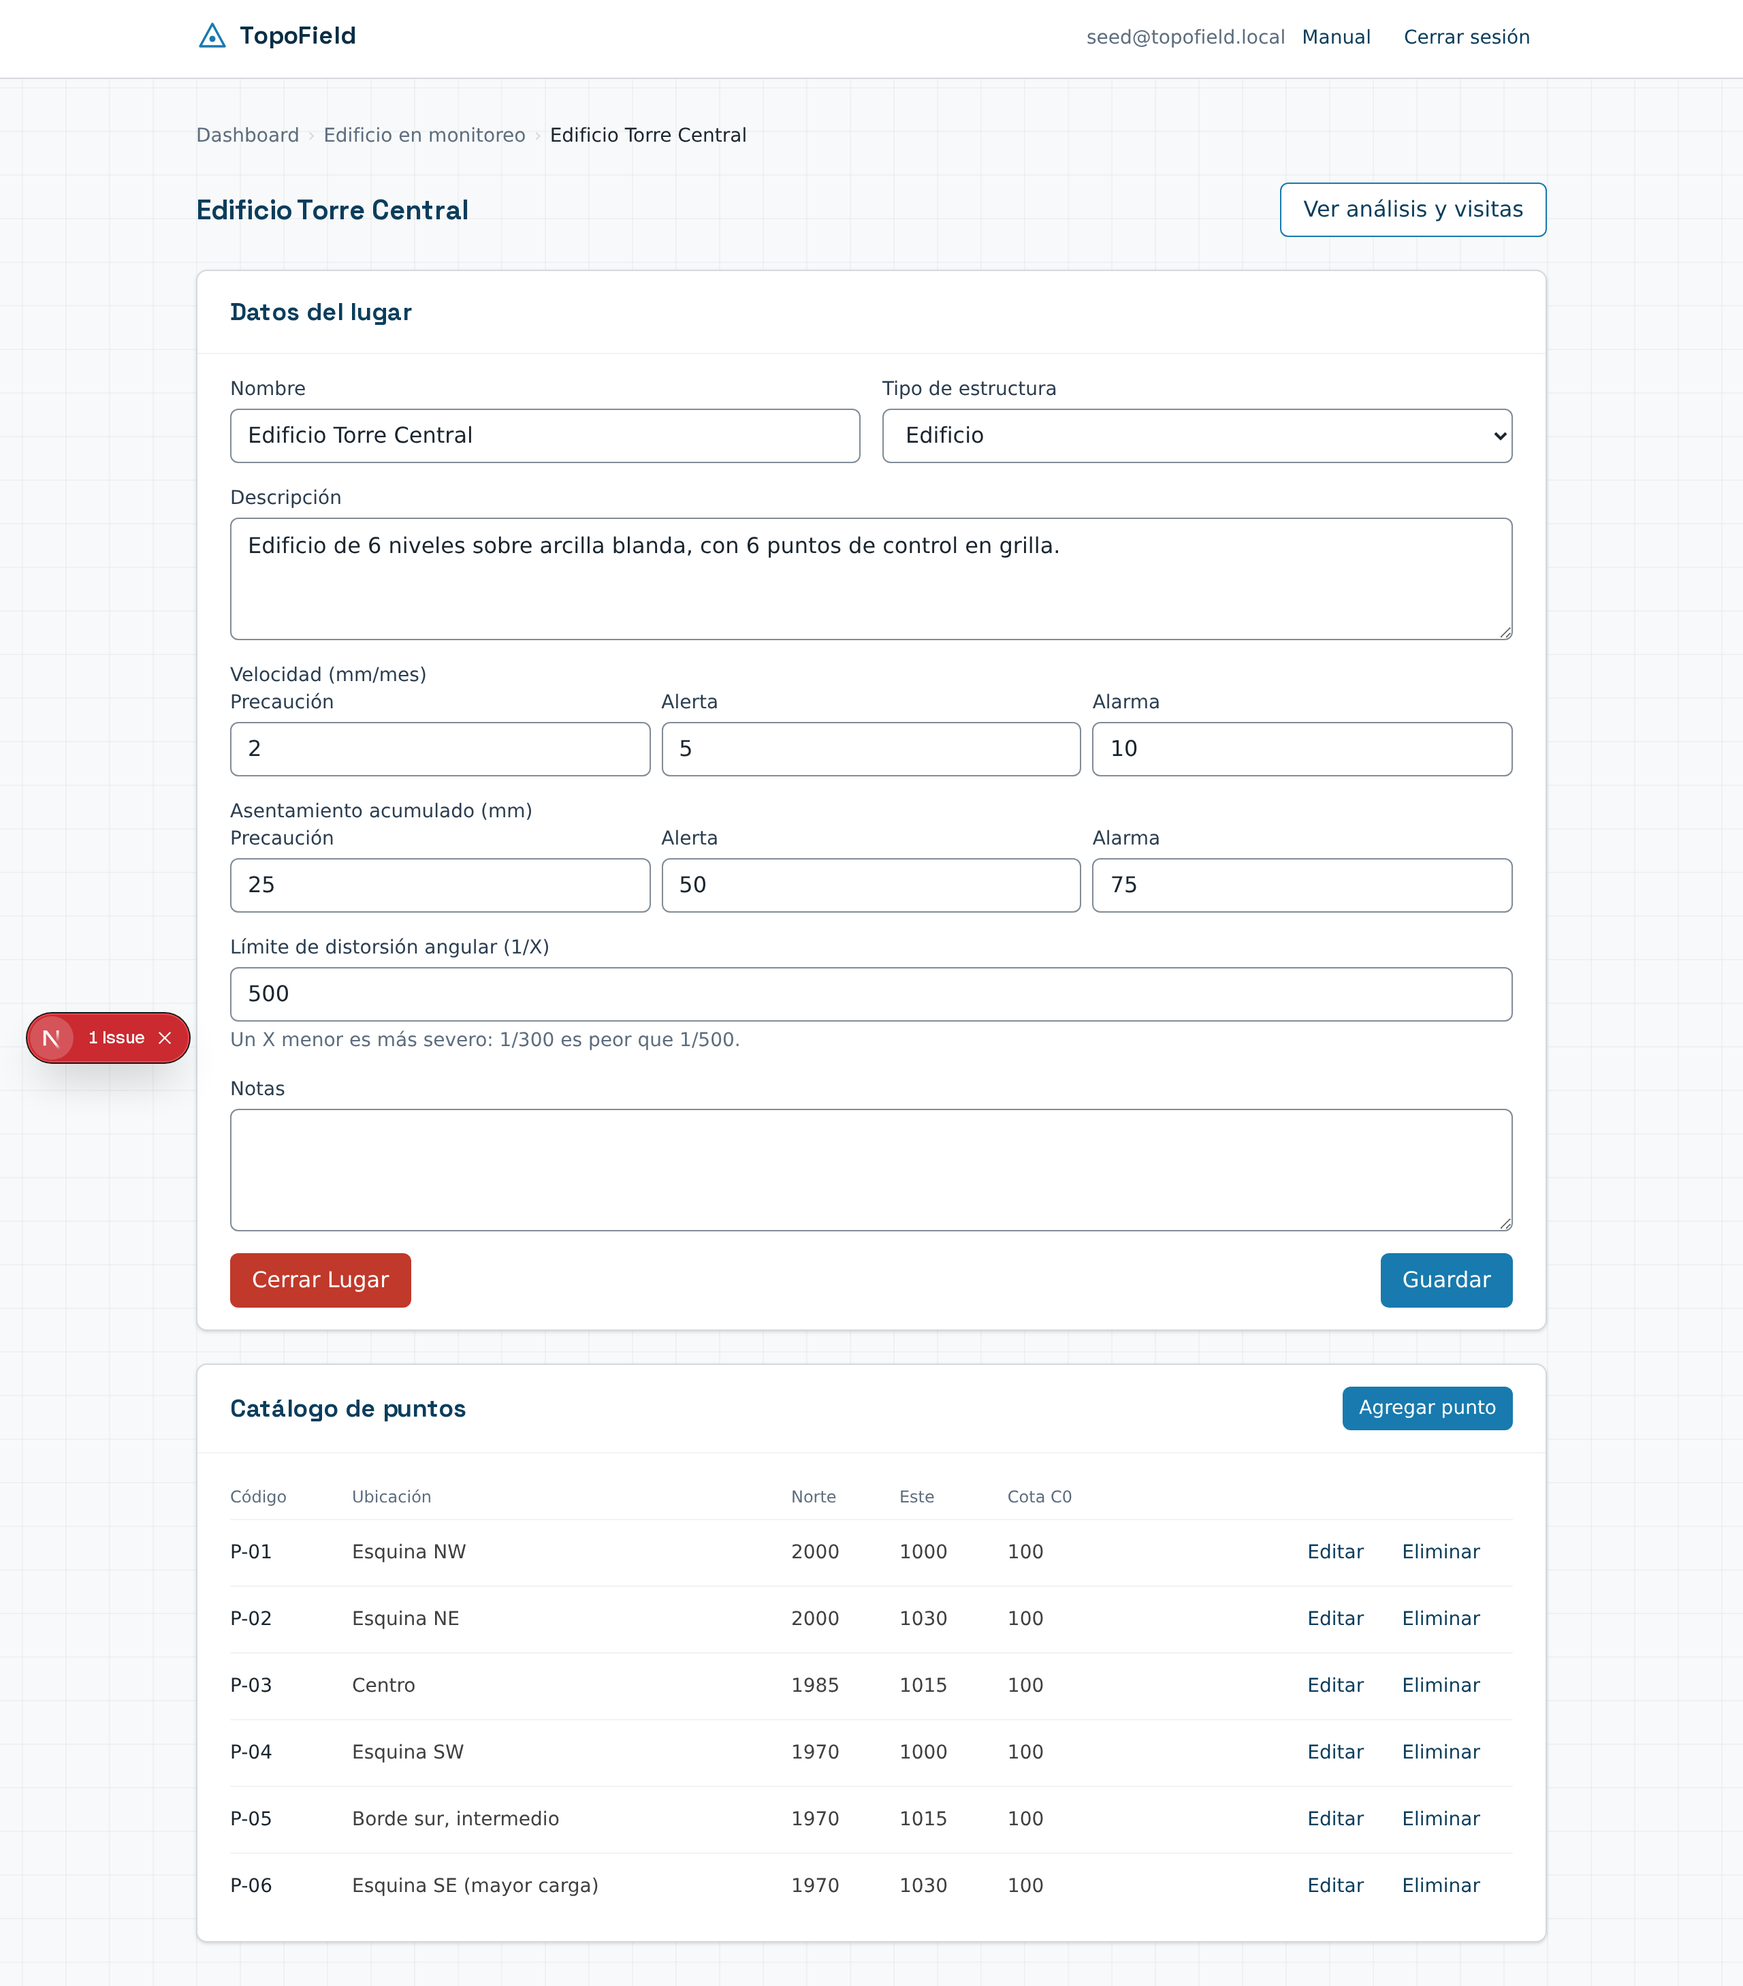
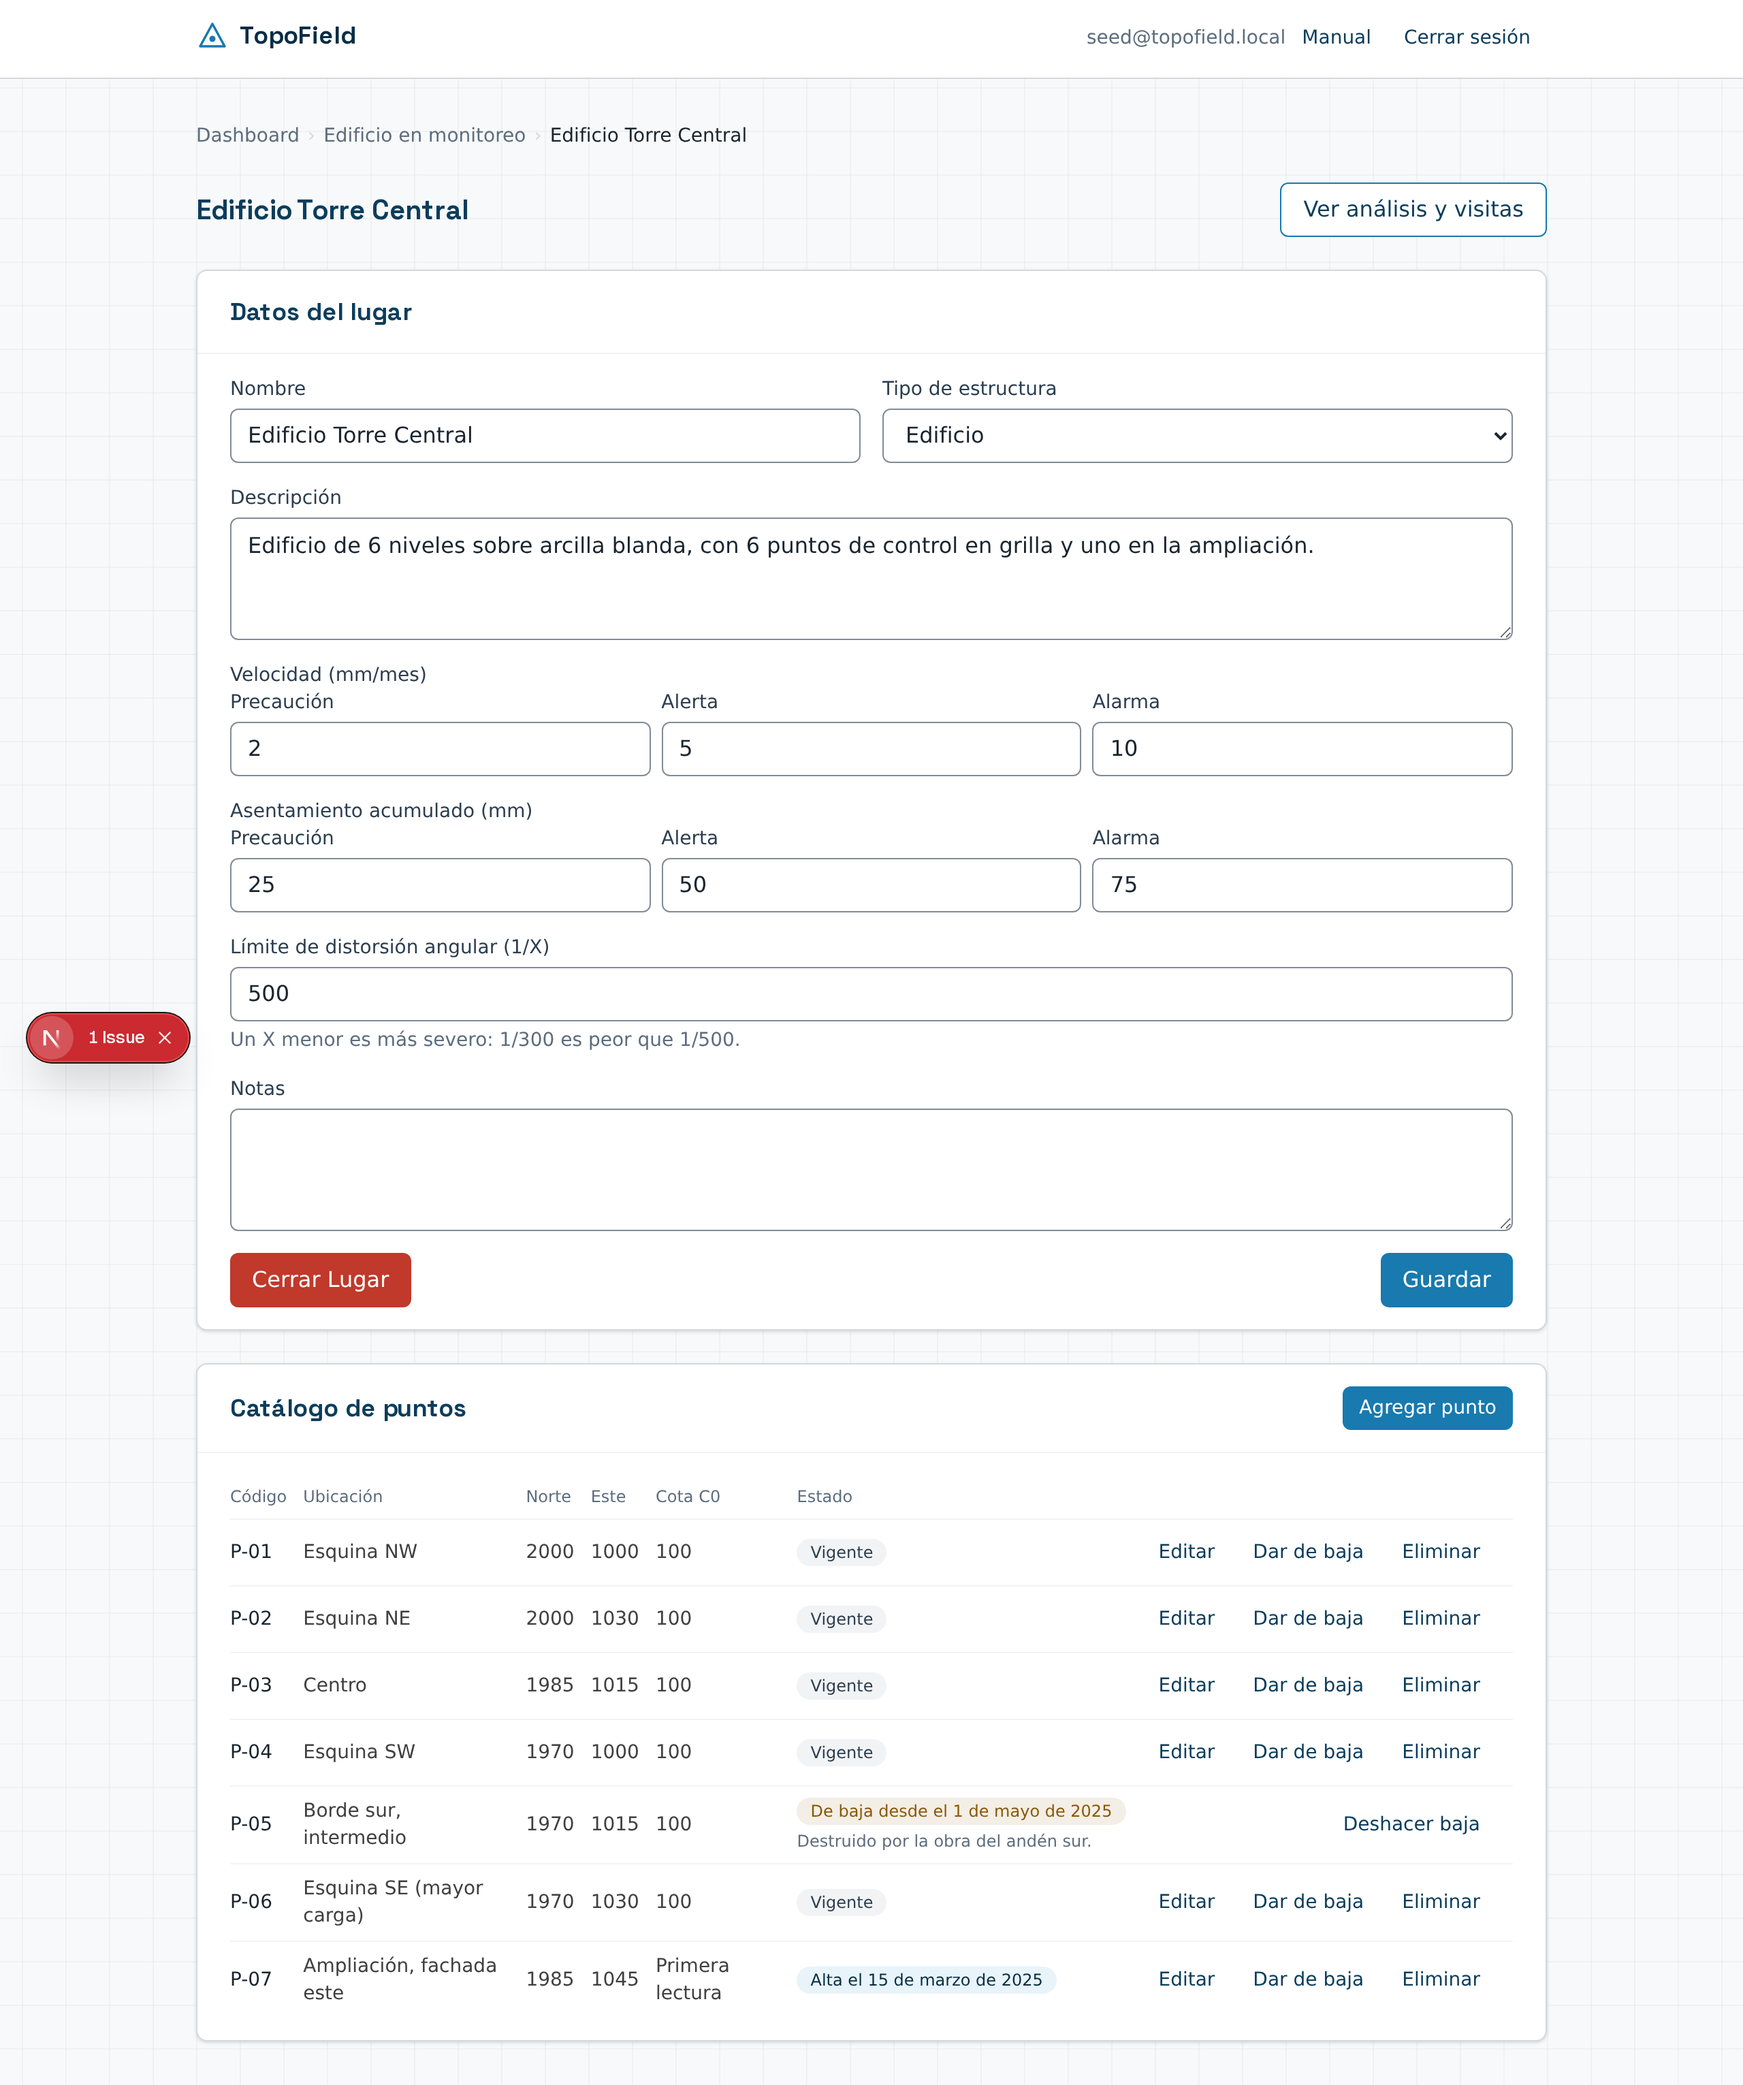
docs: el manual explica dar de baja y de alta un punto
Nueva § 7.6, en las dos copias. La § 7.2 dice que sin C0 la línea base es
la primera lectura, la § 7.3 que la visita pide solo los puntos vigentes,
la § 7.4 que los diferenciales de un punto de alta se miden sobre el
periodo común, y la § 7.5 la regla de cierre de la línea base. Capturas
14, 15 y 16 regeneradas con capturas.mjs.

diff --git a/src/app/(app)/manual/page.tsx b/src/app/(app)/manual/page.tsx
@@ -831,6 +831,21 @@ export default function ManualPage() {
           mide el asentamiento acumulado de todas las visitas futuras.
         </p>
 
+        <p>
+          La C0 es opcional. Si la deja vacía, la{" "}
+          <strong>línea base del punto es su primera lectura</strong>: esa
+          lectura queda con acumulado 0 y las siguientes se miden contra ella.
+        </p>
+
+        <p>
+          El catálogo puede cambiar a mitad del monitoreo —un punto se
+          destruye, otro se instala—; ver{" "}
+          <a href="#baja-alta" className="underline">
+            § 7.6
+          </a>
+          .
+        </p>
+
         <h3 className="mt-4 text-lg font-semibold">
           7.3 Registrar una visita
         </h3>
@@ -864,6 +879,13 @@ export default function ManualPage() {
         </Nota>
 
         <p>
+          La tabla pide los puntos <strong>vigentes</strong> en la fecha de la
+          visita. Un punto de baja, o dado de alta después de esa fecha, no
+          aparece, y una nota debajo de la tabla dice cuál falta y por qué,
+          para que la ausencia no parezca un olvido.
+        </p>
+
+        <p>
           Por cada punto se captura la <strong>cota medida</strong>. La
           aplicación calcula al instante:
         </p>
@@ -875,7 +897,7 @@ export default function ManualPage() {
           </li>
           <li>
             <strong>Acumulado</strong> — cuánto ha bajado desde la línea base
-            (C0), en mm.
+            del punto —su C0 o, sin C0, su primera lectura—, en mm.
           </li>
           <li>
             <strong>Velocidad</strong> — el parcial dividido entre el tiempo
@@ -951,6 +973,15 @@ export default function ManualPage() {
         </p>
 
         <p>
+          Si uno de los dos puntos se dio de alta a mitad del monitoreo, los
+          dos asentamientos se miden <strong>desde la fecha de ese alta</strong>{" "}
+          —el periodo que ambos comparten— y la fila lo indica debajo del par
+          («desde el 15 de marzo de 2025»). Comparar un punto que lleva meses
+          bajando con uno recién instalado daría una distorsión que no
+          significa nada.
+        </p>
+
+        <p>
           <strong>Gráfica de evolución.</strong> El asentamiento acumulado de
           cada punto a lo largo de las visitas. Puede activar o desactivar
           puntos con las casillas de arriba. Cada serie se distingue por{" "}
@@ -968,14 +999,83 @@ export default function ManualPage() {
         <p>
           Cerrar una <strong>visita</strong> la deja en solo lectura: es el
           registro de campo de una fecha concreta, y una vez cerrada no
-          admite más cambios.
+          admite más cambios. Se exige lectura de todos los puntos{" "}
+          <strong>vigentes</strong> en su fecha; los de baja no.
         </p>
+
+        <Nota titulo="Cierre antes la visita de la línea base">
+          Si un punto sin C0 tiene su primera lectura en una visita anterior
+          que sigue abierta, la aplicación no deja cerrar las posteriores:
+          «Cierra antes la visita 2: contiene la primera lectura de P-07, que
+          es su línea base». Si esa primera lectura siguiera editable,
+          cambiarla movería el acumulado de visitas ya cerradas.
+        </Nota>
 
         <p>
           Cerrar el <strong>lugar</strong> termina el monitoreo por completo:
           el lugar y todas sus visitas —cerradas o no— quedan en solo
           lectura. Use el cierre del lugar cuando el seguimiento del sitio
           haya concluido, no visita por visita.
+        </p>
+
+        <h3 id="baja-alta" className="mt-4 scroll-mt-6 text-lg font-semibold">
+          7.6 Dar de baja y de alta un punto
+        </h3>
+
+        <p>
+          Los puntos que se miden no son siempre los mismos durante todo el
+          monitoreo. Un BM se destruye, se tapa o se pierde; otro se instala
+          cuando la obra avanza.
+        </p>
+
+        <p>
+          <strong>Dar de baja.</strong> En el catálogo,{" "}
+          <strong>Dar de baja</strong> pide dos datos:
+        </p>
+
+        <ul className="ml-5 list-disc space-y-1">
+          <li>
+            <strong>De baja desde</strong> — la primera fecha en que el punto
+            ya <strong>no</strong> se mide. Debe ser posterior a su última
+            lectura.
+          </li>
+          <li>
+            <strong>Motivo</strong> — obligatorio: dentro de un año nadie
+            recordará por qué el punto dejó de medirse.
+          </li>
+        </ul>
+
+        <p>
+          La baja <strong>no borra nada</strong>. Las lecturas anteriores
+          siguen en el análisis, la gráfica muestra la serie hasta su última
+          lectura con la marca «(de baja)», y el informe cuenta el punto y
+          dice desde cuándo está de baja. Un punto de baja no se edita.
+        </p>
+
+        <p>
+          <strong>Deshacer una baja</strong> solo sirve para corregir un
+          error, y solo mientras ninguna visita cerrada tenga fecha igual o
+          posterior a la baja. Después es definitiva, y el catálogo dice qué
+          visita la hizo definitiva. Si un BM tapado aparece de nuevo, puede
+          haberse movido: regístrelo como <strong>punto nuevo</strong>, con
+          otro código y su propia línea base, no como la continuación de su
+          serie.
+        </p>
+
+        <Nota titulo="Borrar no es dar de baja">
+          Un punto con lecturas en visitas cerradas no se puede eliminar: es
+          parte del registro del monitoreo. Borrar queda para los puntos
+          creados por error.
+        </Nota>
+
+        <p>
+          <strong>Dar de alta.</strong> Un punto que se agrega cuando el lugar
+          ya tiene visitas se da de alta: el formulario pide la{" "}
+          <strong>fecha de alta</strong> en lugar de la C0, porque su línea
+          base será su <strong>primera lectura</strong>, no la visita 0 del
+          lugar. La fecha debe ser posterior a la última visita cerrada, que
+          se cerró sin él. El punto se exige en las visitas desde esa fecha y
+          no en las anteriores.
         </p>
 
         <VolverArriba />

diff --git a/docs/manual/README.md b/docs/manual/README.md
@@ -536,6 +536,13 @@ coordenadas Norte/Este (opcionales, pero necesarias para calcular distorsión
 angular entre puntos) y la **cota inicial (C0)** — la referencia contra la
 que se mide el asentamiento acumulado de todas las visitas futuras.
 
+La C0 es opcional. Si la deja vacía, la **línea base del punto es su primera
+lectura**: esa lectura queda con acumulado 0 y las siguientes se miden contra
+ella.
+
+El catálogo puede cambiar a mitad del monitoreo —un punto se destruye, otro se
+instala—; ver [§ 7.6](#76-dar-de-baja-y-de-alta-un-punto).
+
 ### 7.3 Registrar una visita
 
 Cada **visita** es una fecha en la que se releyeron los puntos del catálogo.
@@ -557,11 +564,16 @@ equipo, no el lugar.
 > nivelación (§ 6.5): un nivel de 5.0 mm/km con primer orden (K = 3) avisa; uno
 > de 2.5 mm/km, ajustado pero posible, no. Es un aviso, no un bloqueo.
 
+La tabla pide los puntos **vigentes** en la fecha de la visita. Un punto de
+baja, o dado de alta después de esa fecha, no aparece, y una nota debajo de la
+tabla dice cuál falta y por qué, para que la ausencia no parezca un olvido.
+
 Por cada punto se captura la **cota medida**. La aplicación calcula al
 instante:
 
 - **Parcial** — cuánto bajó (o subió) el punto desde la visita anterior, en mm.
-- **Acumulado** — cuánto ha bajado desde la línea base (C0), en mm.
+- **Acumulado** — cuánto ha bajado desde la línea base del punto —su C0 o,
+  sin C0, su primera lectura—, en mm.
 - **Velocidad** — el parcial dividido entre el tiempo transcurrido, en
   mm/mes. **Se calcula con los días reales entre las dos visitas**, no con
   «un mes» genérico: una visita a 28 días y otra a 31 no dan la misma
@@ -607,6 +619,12 @@ esa diferencia dada la distancia entre ellos, como `1/X`. Un par sin
 coordenadas capturadas queda fuera de esta tabla en vez de calcularse con una
 distancia de cero.
 
+Si uno de los dos puntos se dio de alta a mitad del monitoreo, los dos
+asentamientos se miden **desde la fecha de ese alta** —el periodo que ambos
+comparten— y la fila lo indica debajo del par («desde el 15 de marzo de
+2025»). Comparar un punto que lleva meses bajando con uno recién instalado
+daría una distorsión que no significa nada.
+
 **Gráfica de evolución.** El asentamiento acumulado de cada punto a lo largo
 de las visitas. Puede activar o desactivar puntos con las casillas de
 arriba. Cada serie se distingue por **forma de marcador además de color**
@@ -617,11 +635,51 @@ textual para cuando la gráfica no basta.
 ### 7.5 Cerrar una visita o el lugar
 
 Cerrar una **visita** la deja en solo lectura: es el registro de campo de una
-fecha concreta, y una vez cerrada no admite más cambios.
+fecha concreta, y una vez cerrada no admite más cambios. Se exige lectura de
+todos los puntos **vigentes** en su fecha; los de baja no.
+
+> **Cierre antes la visita de la línea base.** Si un punto sin C0 tiene su
+> primera lectura en una visita anterior que sigue abierta, la aplicación no
+> deja cerrar las posteriores: «Cierra antes la visita 2: contiene la primera
+> lectura de P-07, que es su línea base». Si esa primera lectura siguiera
+> editable, cambiarla movería el acumulado de visitas ya cerradas.
 
 Cerrar el **lugar** termina el monitoreo por completo: el lugar y todas sus
 visitas —cerradas o no— quedan en solo lectura. Use el cierre del lugar
 cuando el seguimiento del sitio haya concluido, no visita por visita.
+
+### 7.6 Dar de baja y de alta un punto
+
+Los puntos que se miden no son siempre los mismos durante todo el monitoreo.
+Un BM se destruye, se tapa o se pierde; otro se instala cuando la obra avanza.
+
+**Dar de baja.** En el catálogo, **Dar de baja** pide dos datos:
+
+- **De baja desde** — la primera fecha en que el punto ya **no** se mide. Debe
+  ser posterior a su última lectura.
+- **Motivo** — obligatorio: dentro de un año nadie recordará por qué el punto
+  dejó de medirse.
+
+La baja **no borra nada**. Las lecturas anteriores siguen en el análisis, la
+gráfica muestra la serie hasta su última lectura con la marca «(de baja)», y
+el informe cuenta el punto y dice desde cuándo está de baja. Un punto de baja
+no se edita.
+
+**Deshacer una baja** solo sirve para corregir un error, y solo mientras
+ninguna visita cerrada tenga fecha igual o posterior a la baja. Después es
+definitiva, y el catálogo dice qué visita la hizo definitiva. Si un BM tapado
+aparece de nuevo, puede haberse movido: regístrelo como **punto nuevo**, con
+otro código y su propia línea base, no como la continuación de su serie.
+
+> **Borrar no es dar de baja.** Un punto con lecturas en visitas cerradas no
+> se puede eliminar: es parte del registro del monitoreo. Borrar queda para
+> los puntos creados por error.
+
+**Dar de alta.** Un punto que se agrega cuando el lugar ya tiene visitas se da
+de alta: el formulario pide la **fecha de alta** en lugar de la C0, porque su
+línea base será su **primera lectura**, no la visita 0 del lugar. La fecha
+debe ser posterior a la última visita cerrada, que se cerró sin él. El punto
+se exige en las visitas desde esa fecha y no en las anteriores.
 
 ---
 
